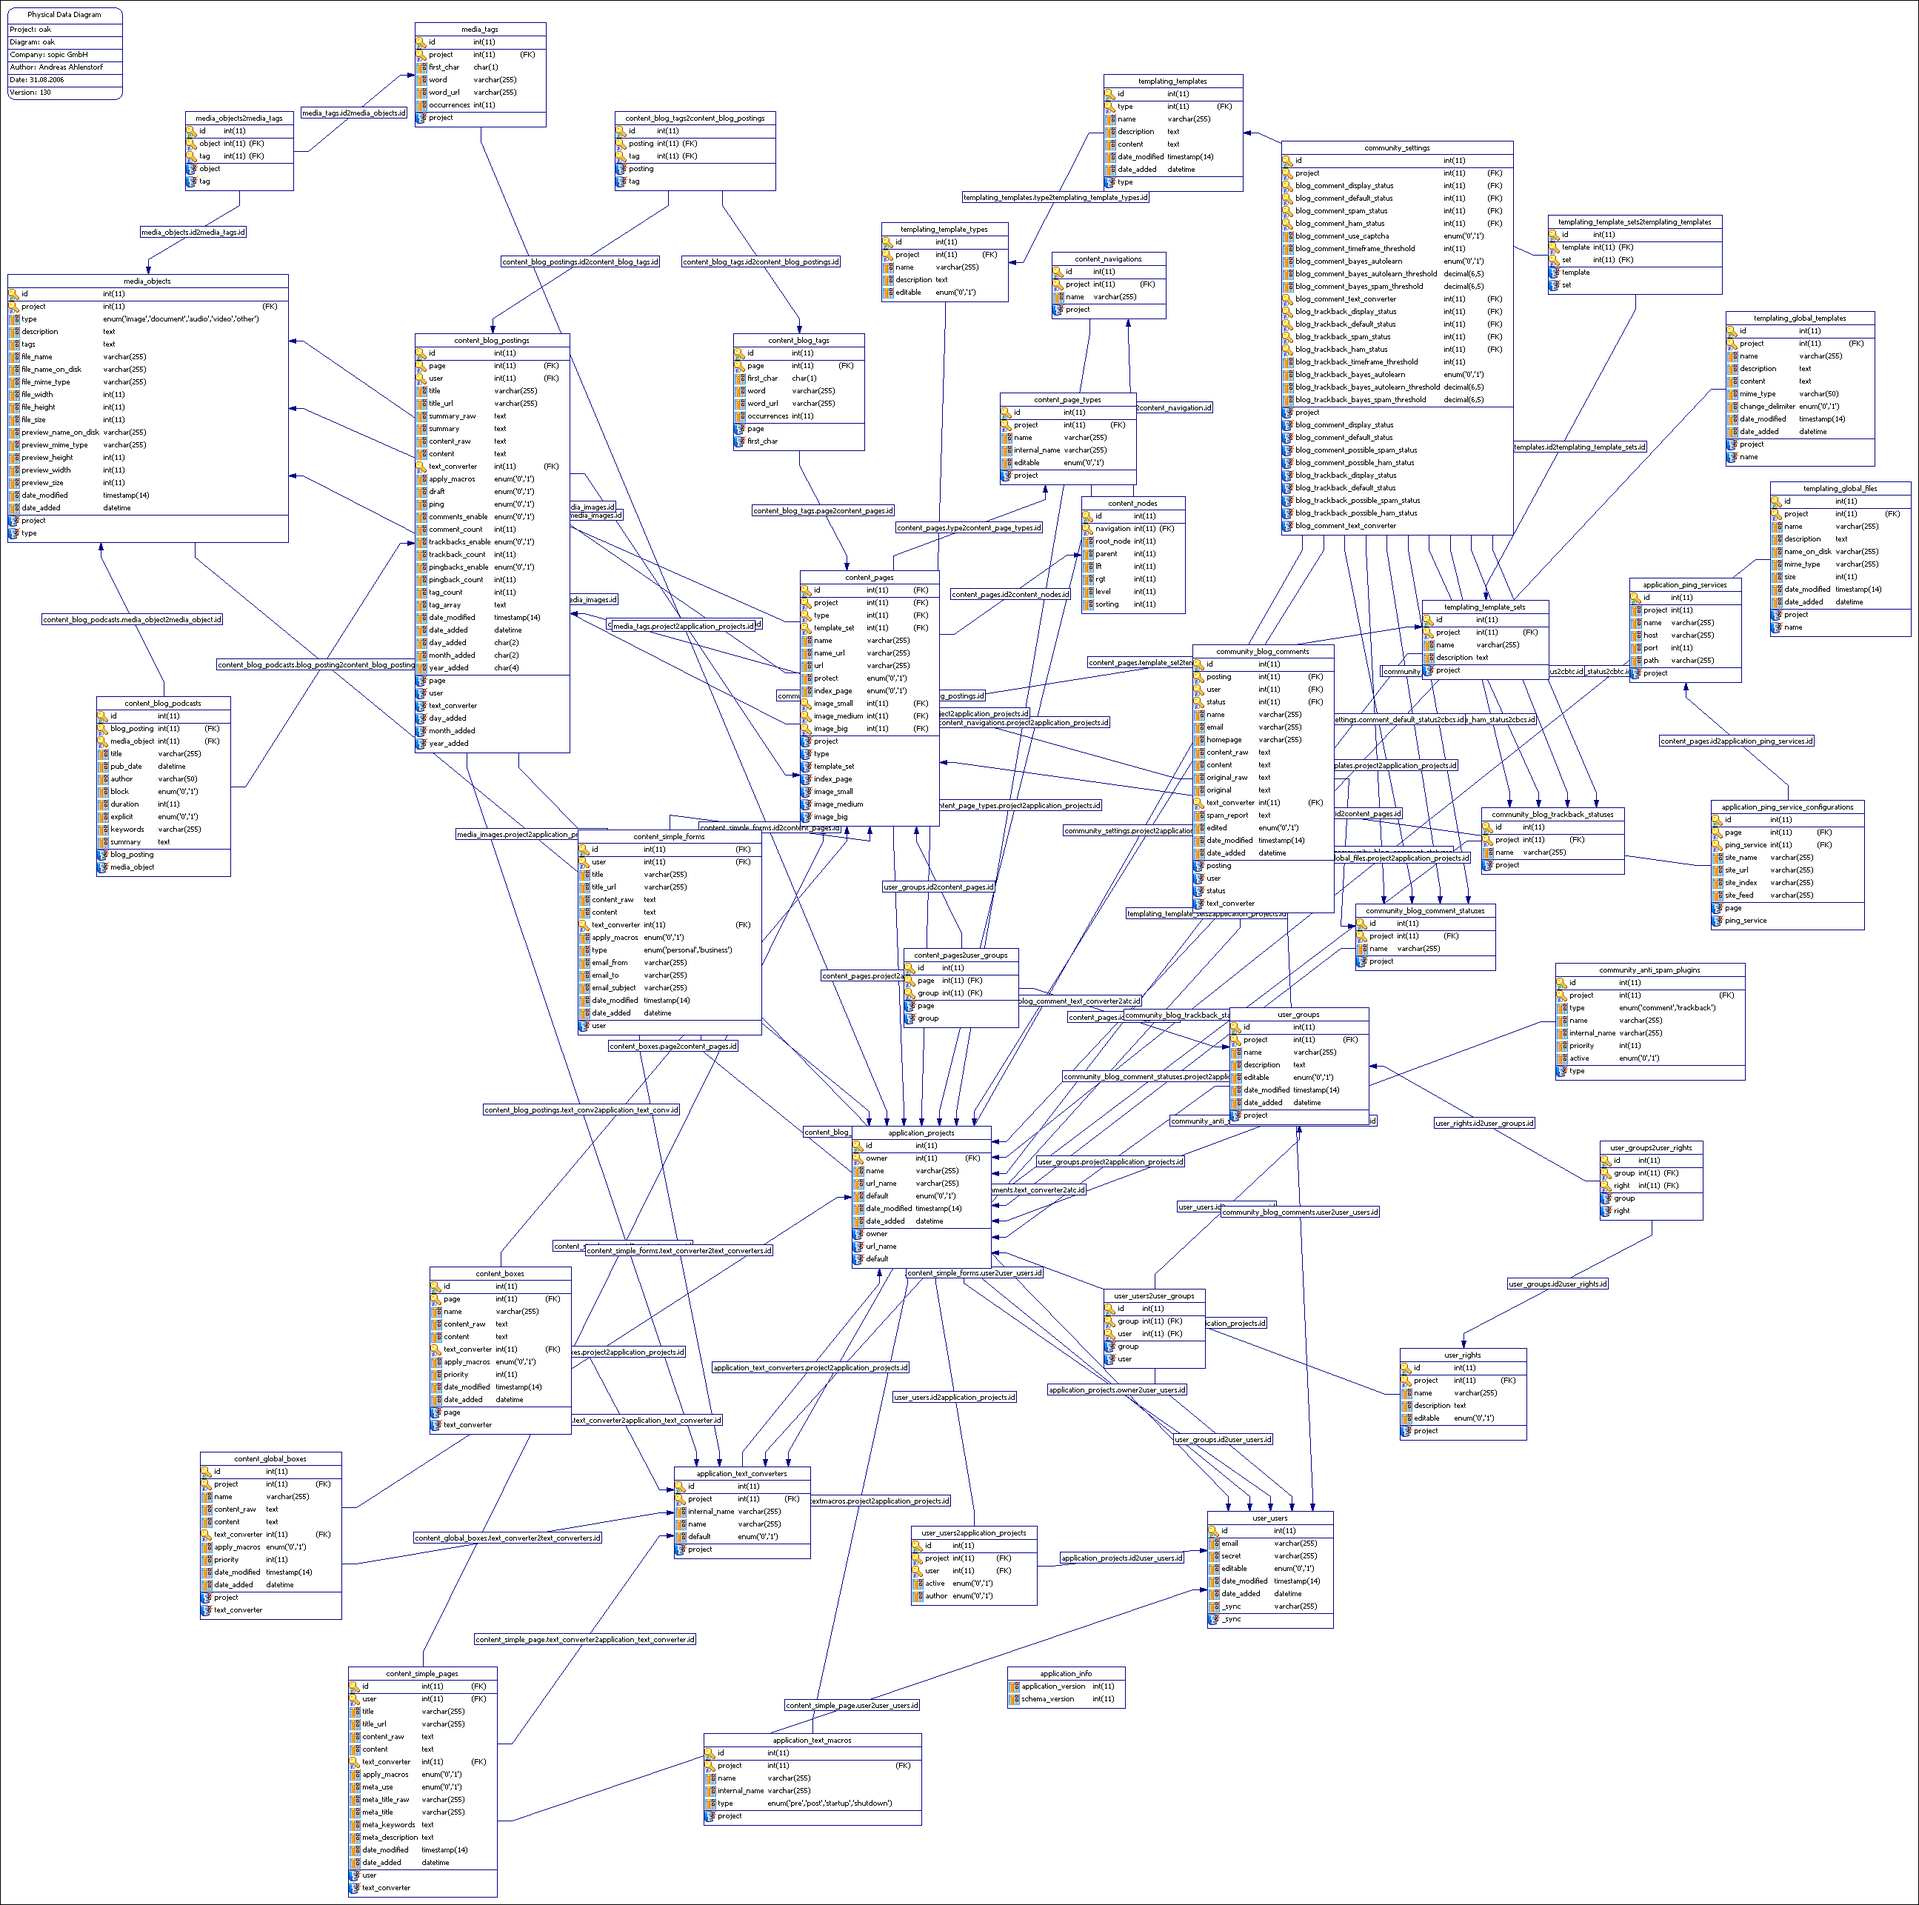
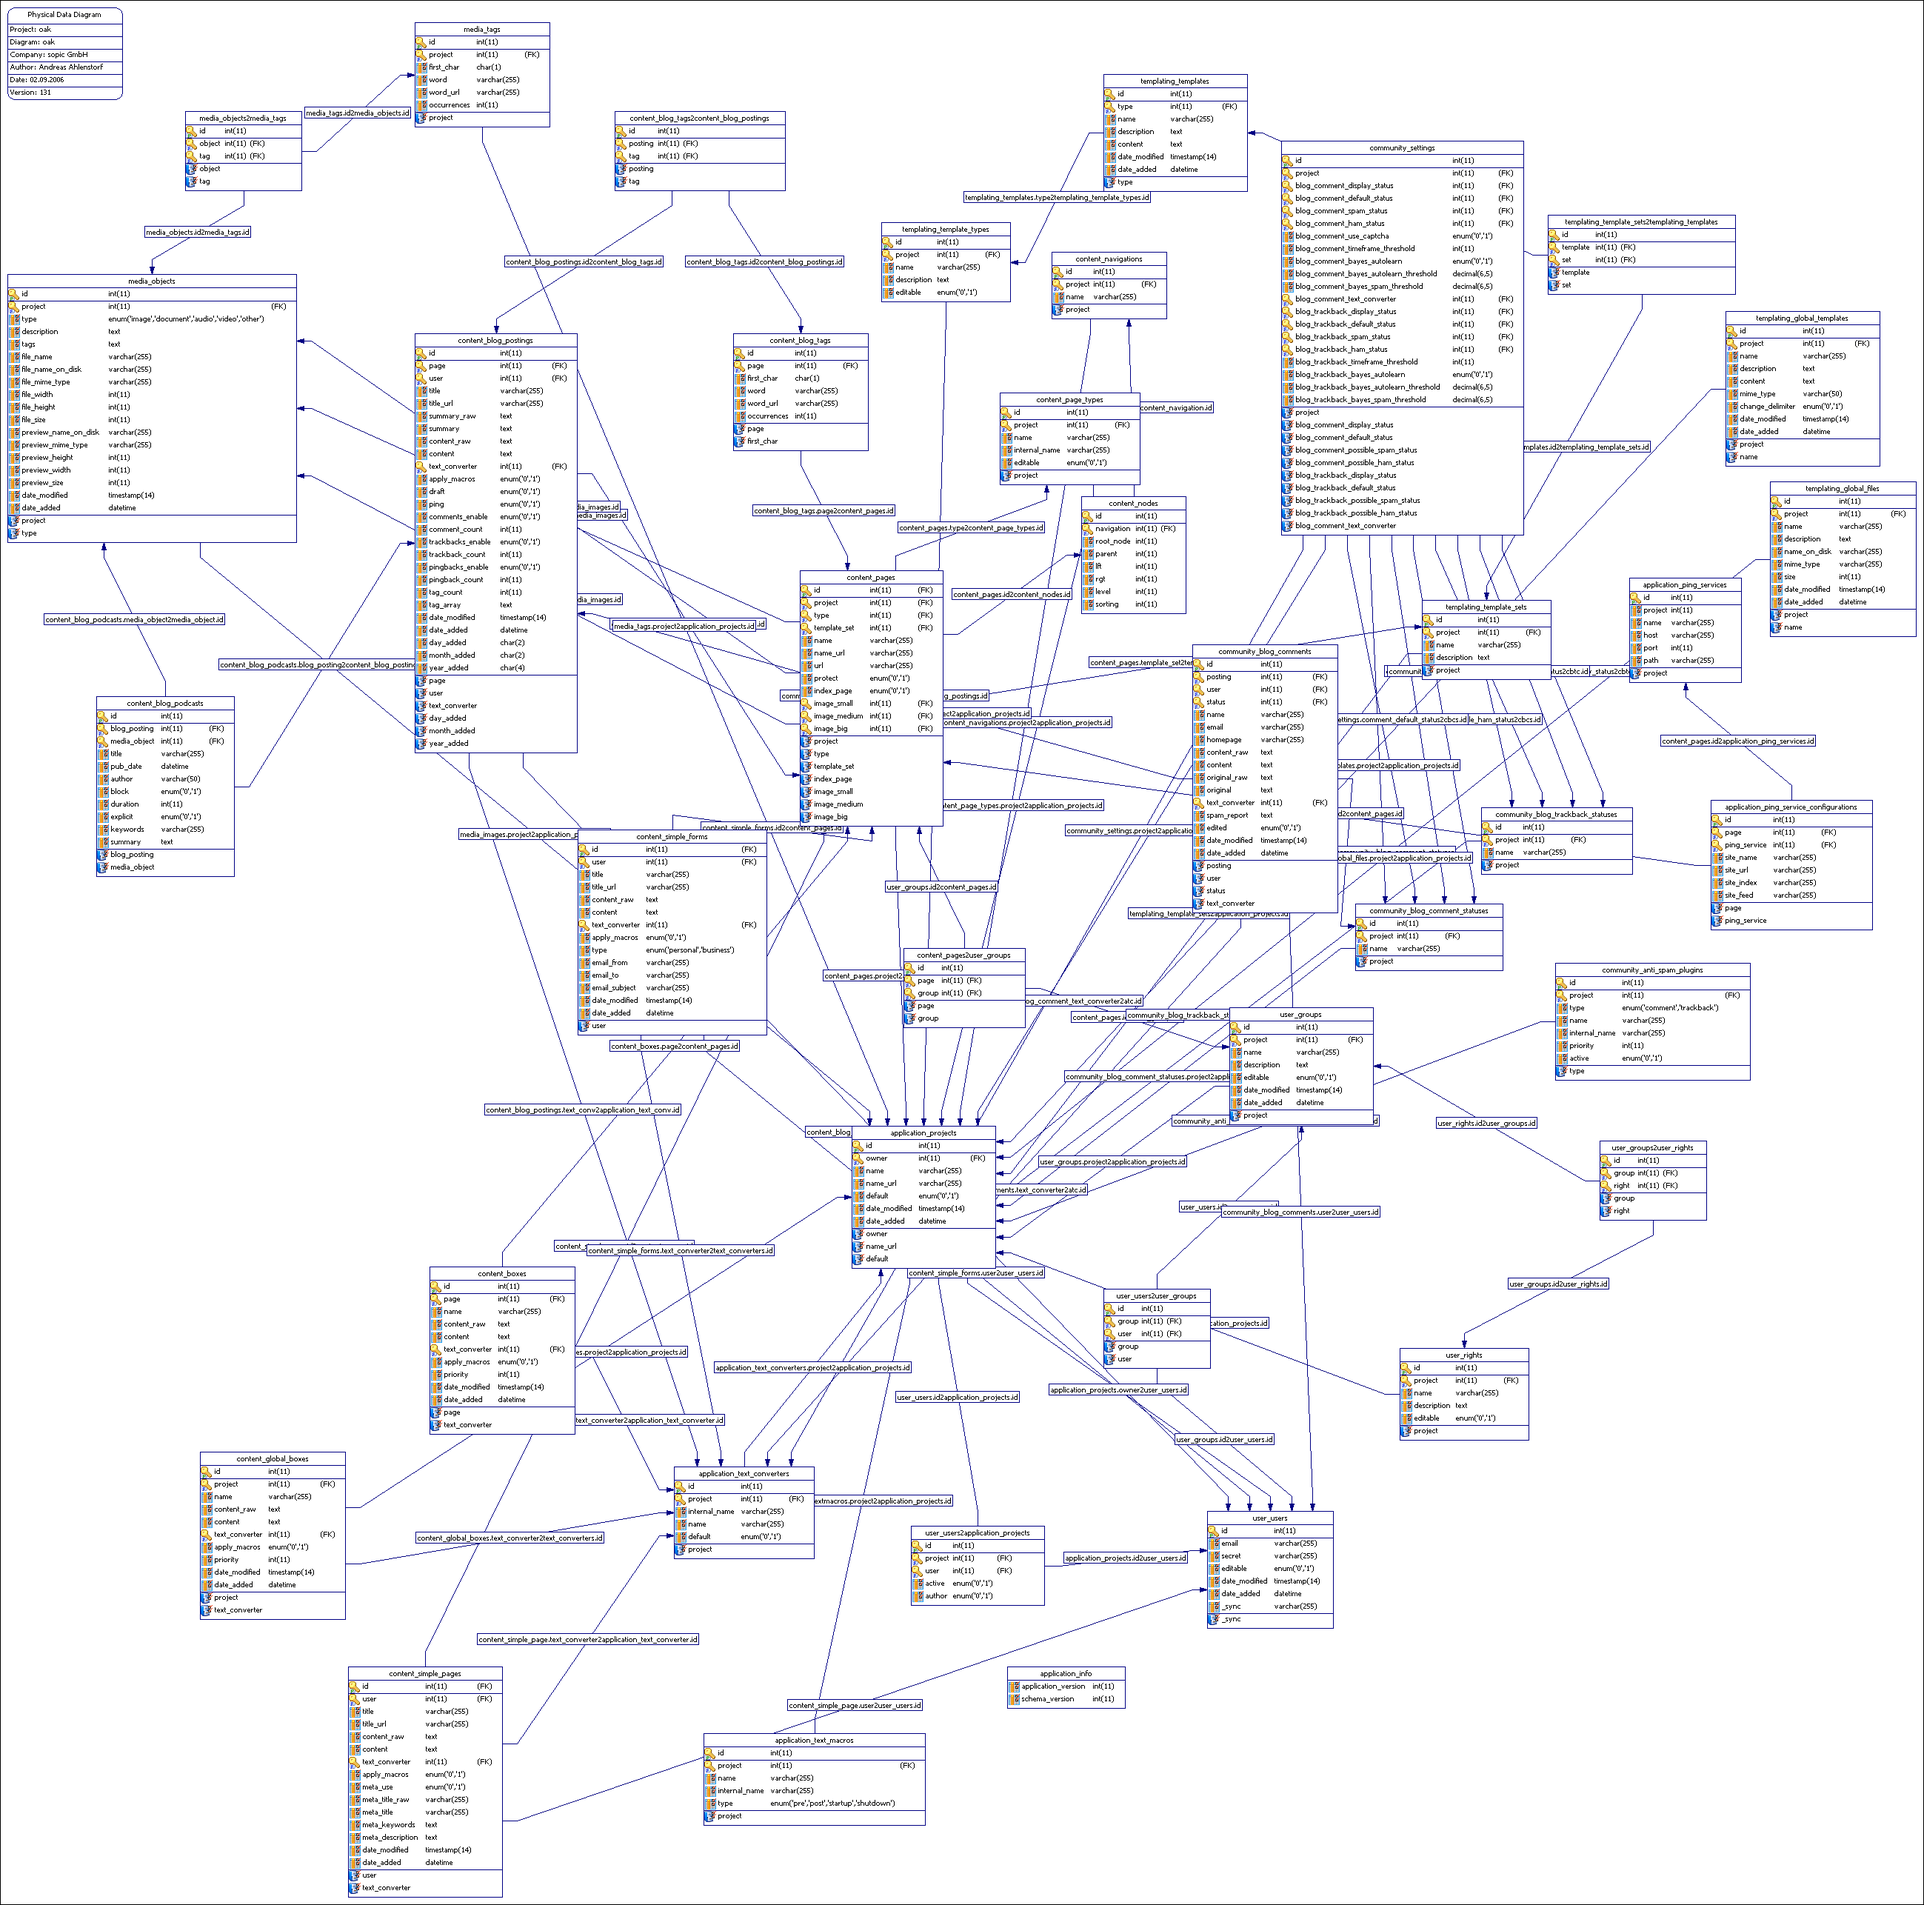
Name consistency improved (url_name => name_url)

diff --git a/oak/core/application_classes/project.class.php b/oak/core/application_classes/project.class.php
@@ -129,7 +129,7 @@ public function selectProject ($id)
 			`application_projects`.`id` AS `id`,
 			`application_projects`.`owner` AS `owner`,
 			`application_projects`.`name` AS `name`,
-			`application_projects`.`url_name` AS `url_name`,
+			`application_projects`.`name_url` AS `name_url`,
 			`application_projects`.`date_modified` AS `date_modified`,
 			`application_projects`.`date_added` AS `date_added`
 		FROM
@@ -224,7 +224,7 @@ public function selectProjects ($params = array())
 			`application_projects`.`id` AS `id`,
 			`application_projects`.`owner` AS `owner`,
 			`application_projects`.`name` AS `name`,
-			`application_projects`.`url_name` AS `url_name`,
+			`application_projects`.`name_url` AS `name_url`,
 			`application_projects`.`date_modified` AS `date_modified`,
 			`application_projects`.`date_added` AS `date_added`
 		FROM
@@ -375,10 +375,10 @@ public function selectDefaultProject ()
  * @param string Project's url name
  * @return array
  */
-public function selectProjectUsingUrlName ($url_name)
+public function selectProjectUsingUrlName ($name_url)
 {
 	// input check
-	if (empty($url_name) || !preg_match(OAK_REGEX_PROJECT_URL_NAME, $url_name)) {
+	if (empty($name_url) || !preg_match(OAK_REGEX_PROJECT_NAME_URL, $name_url)) {
 		throw new Application_ProjectException("Input for project's url name may not be empty");
 	}
 	
@@ -389,14 +389,14 @@ public function selectProjectUsingUrlName ($url_name)
 		FROM
 			".OAK_DB_APPLICATION_PROJECTS." AS `application_projects`
 		WHERE
-			`application_projects`.`url_name` = :url_name
+			`application_projects`.`name_url` = :name_url
 		LIMIT
 			1
 	";
 	
 	// prepare bind params
 	$bind_params = array(
-		'url_name' => $url_name
+		'name_url' => $name_url
 	);
 	
 	// execute query
@@ -504,7 +504,7 @@ public function initProjectPublicArea ()
 {
 	// get user supplied project name
 	$user_supplied_name = Base_Cnc::filterRequest($_REQUEST['project'],
-		OAK_REGEX_PROJECT_URL_NAME);
+		OAK_REGEX_PROJECT_NAME_URL);
 		
 	// if the user supplied name is null, we need to look for the default
 	// project

diff --git a/oak/core/user_classes/group.class.php b/oak/core/user_classes/group.class.php
@@ -233,7 +233,7 @@ public function selectGroup ($id)
 			`application_projects`.`id` AS `project_id`,
 			`application_projects`.`owner` AS `project_owner`,
 			`application_projects`.`name` AS `project_name`,
-			`application_projects`.`url_name` AS `project_url_name`,
+			`application_projects`.`name_url` AS `project_name_url`,
 			`application_projects`.`date_modified` AS `project_date_modified`,
 			`application_projects`.`date_added` AS `project_date_added`
 		FROM
@@ -319,7 +319,7 @@ public function selectGroups ($params = array())
 			`application_projects`.`id` AS `project_id`,
 			`application_projects`.`owner` AS `project_owner`,
 			`application_projects`.`name` AS `project_name`,
-			`application_projects`.`url_name` AS `project_url_name`,
+			`application_projects`.`name_url` AS `project_name_url`,
 			`application_projects`.`date_modified` AS `project_date_modified`,
 			`application_projects`.`date_added` AS `project_date_added`
 		FROM

diff --git a/oak/core/user_classes/user.class.php b/oak/core/user_classes/user.class.php
@@ -231,7 +231,7 @@ public function selectUser ($id)
 			`application_projects`.`id` AS `project_id`,
 			`application_projects`.`owner` AS `project_owner`,
 			`application_projects`.`name` AS `project_name`,
-			`application_projects`.`url_name` AS `project_url_name`,
+			`application_projects`.`name_url` AS `project_name_url`,
 			`application_projects`.`date_modified` AS `project_date_modified`,
 			`application_projects`.`date_added` AS `project_date_added`
 		FROM
@@ -364,7 +364,7 @@ public function selectUsers ($params = array())
 			`application_projects`.`id` AS `project_id`,
 			`application_projects`.`owner` AS `project_owner`,
 			`application_projects`.`name` AS `project_name`,
-			`application_projects`.`url_name` AS `project_url_name`,
+			`application_projects`.`name_url` AS `project_name_url`,
 			`application_projects`.`date_modified` AS `project_date_modified`,
 			`application_projects`.`date_added` AS `project_date_added`
 		FROM

diff --git a/oak/core/conf/regex.inc.php b/oak/core/conf/regex.inc.php
@@ -153,7 +153,7 @@ define("OAK_REGEX_TIMEFRAME", "=^([a-z0-9_]+)$=");
 
 // Defines regular expression for strings containing a
 // project's url name
-define("OAK_REGEX_PROJECT_URL_NAME", "=^([0-9a-z-]+)$=i");
+define("OAK_REGEX_PROJECT_NAME_URL", "=^([0-9a-z-]+)$=i");
 
 // Defines regular expression for strings containing a phone
 // number.

diff --git a/oak/core/conf/sys.inc.php b/oak/core/conf/sys.inc.php
@@ -39,4 +39,7 @@ index.php_lifetime = 0
 textconverter_dir = "/www/oak/trunk/oak/core/plugins/textconverters"
 textmacro_dir = "/www/oak/trunk/oak/core/plugins/textmacros"
 
+[urls]
+blog_item = "/<page_name_url>/<posting_year_added>/<posting_month_added>/<posting_day_added>/<posting_title_url>/"
+
 ; */ ?>
